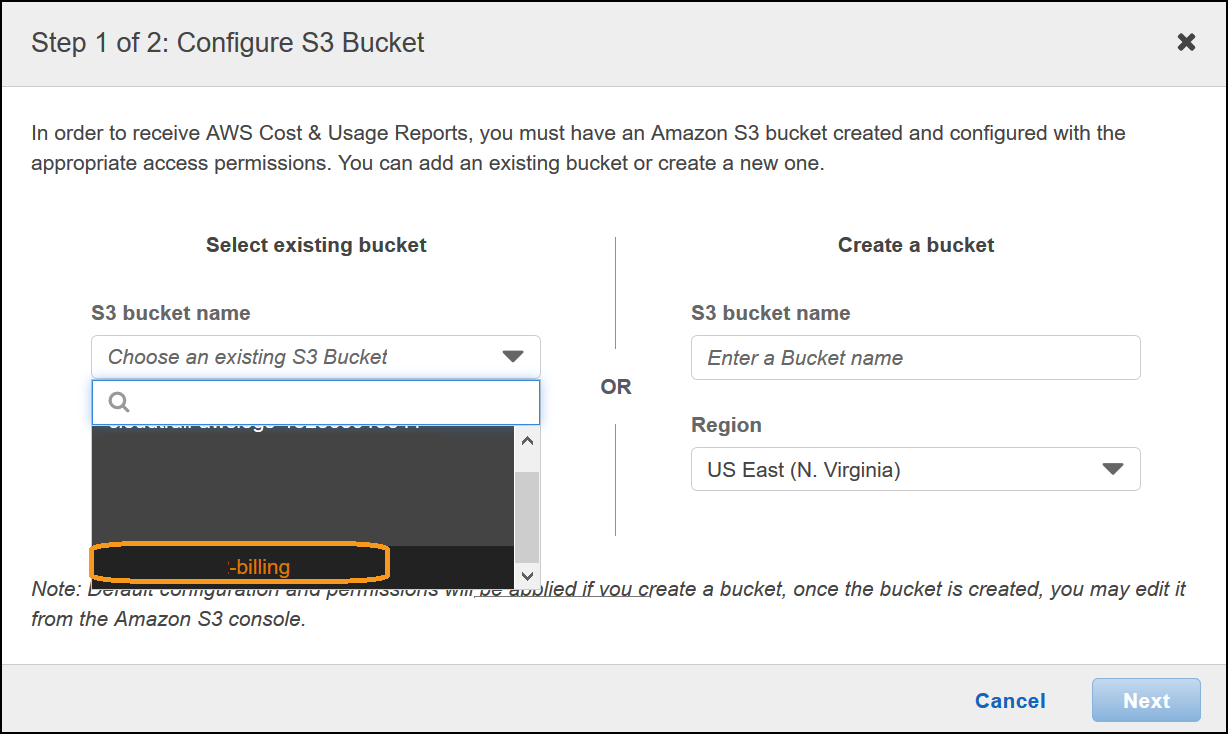
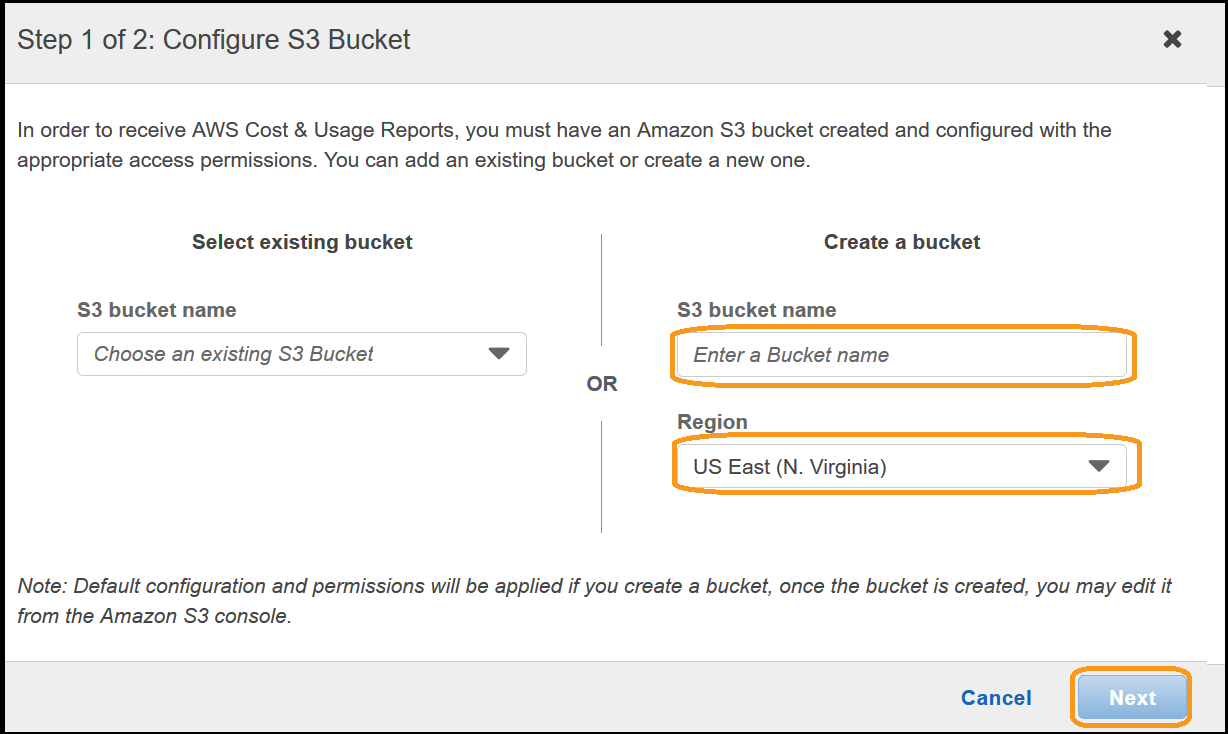
COST 100_1 removed s3 bucket create, as its part of report with new console

diff --git a/Cost/Cost_Fundamentals/100_1_AWS_Account_Setup/Lab Guide.md b/Cost/Cost_Fundamentals/100_1_AWS_Account_Setup/Lab Guide.md
@@ -122,67 +122,8 @@ It is important to ensure your account contacts are up to date and correct. This
 ## 4. Configure Cost and Usage Reports<a name="CUR"></a>
 Cost and Usage Reports provide the most detailed information on your usage and bills. They can be configured to deliver 1 line per resource, for every hour of the day. They must be configured to enable you to access and analyze your usage and billing information. This will allow you to make modifications to your usage, and make your applications more efficient.
 
-### 4.1 Setup S3 Billing bucket 
-We will create an S3 bucket that will be used to deliver the Cost and Usage Reports into. It will be a bucket that allows the AWS Billing account access to put objects.
 
-1. Log in to your Master account as an IAM user with the required permissions, and go to the **S3** console:
-![Images/AWSS31.png](Images/AWSS31.png)
-
-2. Click on **Create bucket**:
-![Images/AWSS32.png](Images/AWSS32.png)
-
-3. Enter a **Bucket name**, **Region** and click **Next**:
-NOTE: Later you will be using Athena and QuickSight, we suggest you create all resources in a single region for ease of access. Ensure that all required services are available in your chosen region.
-![Images/AWSS33.png](Images/AWSS33.png)
-
-4. Enter any additional information such as **Tags** if required, and click **Next**: 
-![Images/AWSS34.png](Images/AWSS34.png)
-
-5. It is suggested to leave the defaults to block public access, and click **Next**:
-![Images/AWSS35.png](Images/AWSS35.png)
-
-6. Verify the settings and click **Create bucket**:
-![Images/AWSS36.png](Images/AWSS36.png)
-
-7. Click on the name of the bucket you just created: 
-![Images/AWSS37.png](Images/AWSS37.png)
-
-8. Click on **Permissions**:
-![Images/AWSS38.png](Images/AWSS38.png)
-
-9. Click on **Bucket Policy**: 
-![Images/AWSS39.png](Images/AWSS39.png)
-
-10. Copy the following bucket policy:
-```
-{
-  "Version": "2008-10-17",
-  "Id": "Policy1335892530063",
-  "Statement": [
-    {
-      "Sid": "Stmt1335892150622",
-      "Effect": "Allow",
-      "Principal": {"AWS": "arn:aws:iam::386209384616:root"},
-      "Action": [ "s3:GetBucketAcl", "s3:GetBucketPolicy" ],
-      "Resource": "arn:aws:s3:::<change_me>"
-    },
-    {
-      "Sid": "Stmt1335892526596",
-      "Effect": "Allow",
-      "Principal": {"AWS": "arn:aws:iam::386209384616:root"},
-      "Action": [ "s3:PutObject" ],
-      "Resource": "arn:aws:s3:::<change_me>/*"
-    }
-  ]
-}
-```
-11. Modify the **<change_me>** to the name of your bucket, and paste it into the policy editor and click **Save**:
-![Images/AWSS310.png](Images/AWSS310.png)
-
-The bucket is now configured and ready to receive the billing reports.
-
-
-### 4.2 Configure a Cost and Usage Report
+### 4.1 Configure a Cost and Usage Report
 1. Log in to your Master account as an IAM user with the required permissions, and go to the **Billing** console:
 ![Images/AWSCUR1.png](Images/AWSCUR1.png) 
 
@@ -198,24 +139,21 @@ The bucket is now configured and ready to receive the billing reports.
 5. Click on **Configure**:
 ![Images/AWSCURDelivery0.png](Images/AWSCURDelivery0.png)
 
-6. Select the bucket configured above:
+6. Enter a unique bucket name, and ensure the region is correct, click **Next**:
 ![Images/AWSCURDelivery1.png](Images/AWSCURDelivery1.png)
 
-7. Click on **Next**:
-![Images/AWSCURDelivery2.png](Images/AWSCURDelivery2.png)
-
-8. Read and verify the policy, this will allow AWS to deliver billing reports to the bucket. Click on **I have confirmed that this policy is correct**, then click **Save**:
+7. Read and verify the policy, this will allow AWS to deliver billing reports to the bucket. Click on **I have confirmed that this policy is correct**, then click **Save**:
 ![Images/AWSCURDelivery3.png](Images/AWSCURDelivery3.png)
 
-9. Esure your bucket is a **Valid Bucket** (if not, verify the bucket policy). Enter a **Report path prefix** (it can be any word) without any '/' characters, ensure the **Time Granularity** is **Hourly**, **Report Versioning** is set to **Overwrite existing report**, under **Enable report data integration for** select **Amazon Athena**, and click **Next**:
+8. Esure your bucket is a **Valid Bucket** (if not, verify the bucket policy). Enter a **Report path prefix** (it can be any word) without any '/' characters, ensure the **Time Granularity** is **Hourly**, **Report Versioning** is set to **Overwrite existing report**, under **Enable report data integration for** select **Amazon Athena**, and click **Next**:
 ![Images/AWSCURDelivery4.png](Images/AWSCURDelivery4.png)
 
-10. Review the configuration, scroll to the bottom and click on **Review and Complete**:
+9. Review the configuration, scroll to the bottom and click on **Review and Complete**:
 ![Images/AWSCUR6.png](Images/AWSCUR6.png)
 
 You have successfully configured a Cost and Usage Report to be delivered.  It may take up to 24hrs for the first report to be delivered.
 
-### 4.3 Enable monthly billing report
+### 4.2 Enable monthly billing report
 The monthly billing report contains estimated AWS charges for the month. It contains line items for each unique combination of AWS product, usage type, and operation that the account uses.
 
 1. Go to the billng console:
